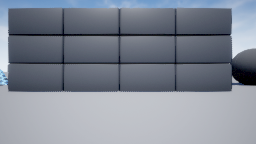
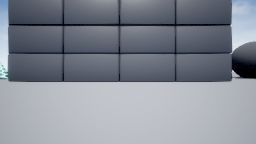
更新代码

diff --git a/Learn/Airsim/test.py b/Learn/Airsim/test.py
@@ -2,6 +2,7 @@ import airsim
 import numpy
 import cv2
 import matplotlib.pyplot
+import tkinter
 
 # 定义一个保存图片的函数，保存rgb和灰度图
 # 输入的是读取相机的数据和保存图片的索引
@@ -32,24 +33,25 @@ def save_image(responses, prefix = ""):
     matplotlib.pyplot.axis('off')
     matplotlib.pyplot.imshow(img_gray, cmap='gray')
 
-    # matplotlib.pyplot.show()      # 垃圾函数  设计得一点都不好
-    matplotlib.pyplot.ion()     # 可交互
+    matplotlib.pyplot.show(block = False)      # 垃圾函数  设计得一点都不好
+    # matplotlib.pyplot.ion()     # 可交互
     matplotlib.pyplot.pause(0.01)   #给他反应时间？
 
 if __name__ == "__main__":
     client = airsim.MultirotorClient()  # 与airsim创建链接
     client.confirmConnection()  # 查询是否建立连接
     client.enableApiControl(True)   # 打开API控制权
-
     client.armDisarm(True)  # 解锁
-    client.takeoffAsync().join()   # 起飞
 
+    client.takeoffAsync().join()   # 起飞
+    responses = client.simGetImages([airsim.ImageRequest("0", airsim.ImageType.Scene, False, False)])   # 每一个的参数：相机名称，图像类型，是否浮点数，是否压缩图像（默认压缩）
+    save_image(responses, 0)
     client.moveToZAsync(-3, 1).join()   # 上升到3m高度
 
 
     # 读取当前时间节点的相机信息
     responses = client.simGetImages([airsim.ImageRequest("0", airsim.ImageType.Scene, False, False)])   # 每一个的参数：相机名称，图像类型，是否浮点数，是否压缩图像（默认压缩）
-    save_image(responses, 0)
+    save_image(responses, 1)
 
     # drivetrain = airsim.DrivetrainType.ForwardOnly
     # yaw_mode = airsim.YawMode(False, 90)
@@ -60,8 +62,10 @@ if __name__ == "__main__":
     # client.moveToPositionAsync(0, 0, -3, 5, drivetrain=drivetrain, yaw_mode=yaw_mode).join()  # 回到（0,0）点坐标
 
     client.landAsync().join()     # 降落
-    client.armDisarm(False)     # 上锁
+    responses = client.simGetImages([airsim.ImageRequest("0", airsim.ImageType.Scene, False, False)])   # 每一个的参数：相机名称，图像类型，是否浮点数，是否压缩图像（默认压缩）
+    save_image(responses, 2)
 
+    client.armDisarm(False)     # 上锁
     client.enableApiControl(False)   # 关闭API控制权
 
     print('测试完成')
